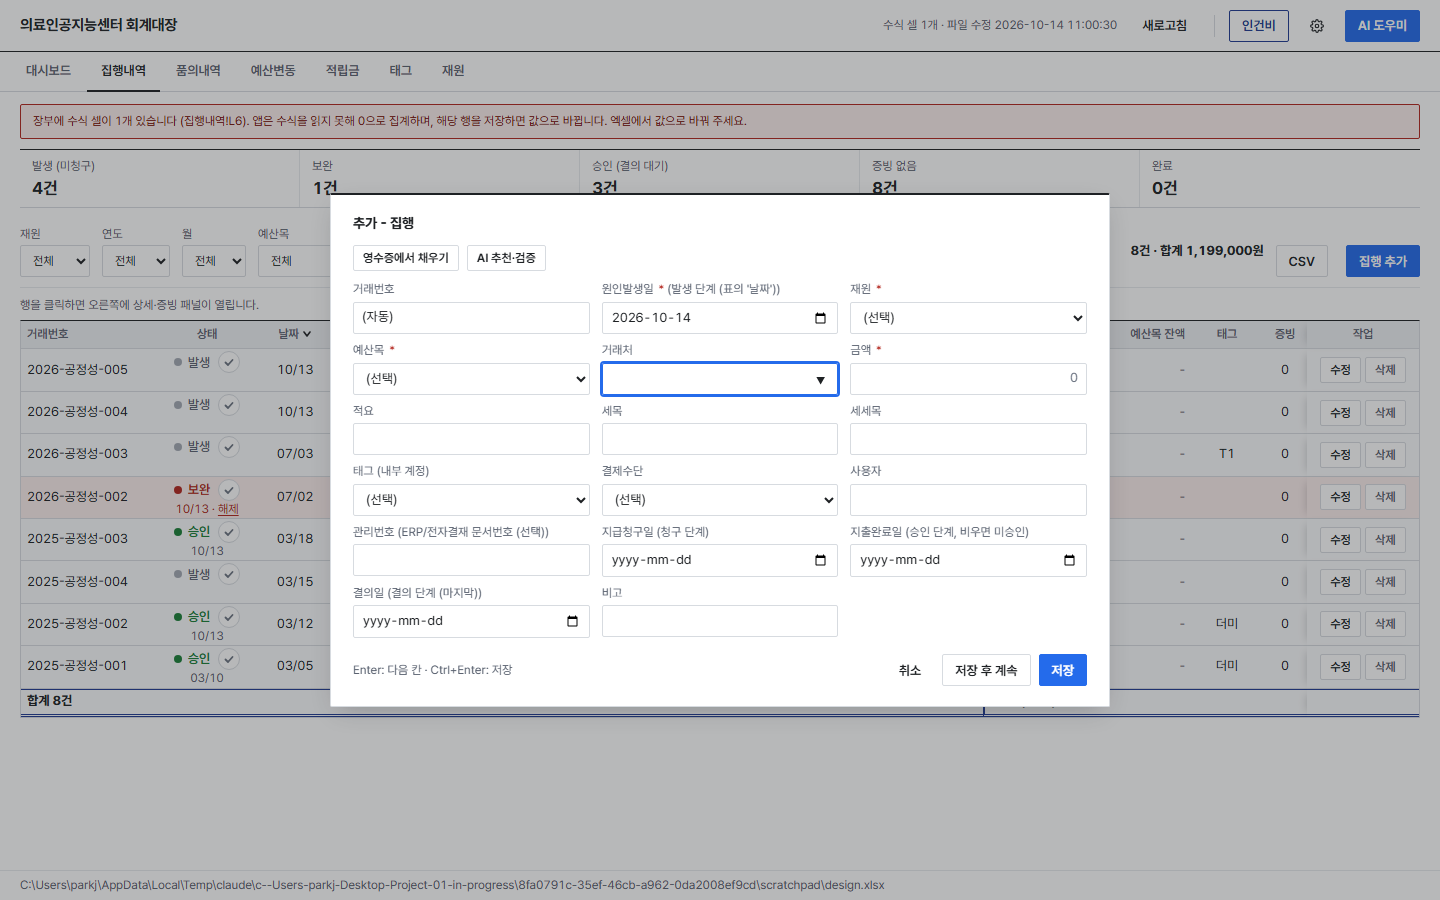
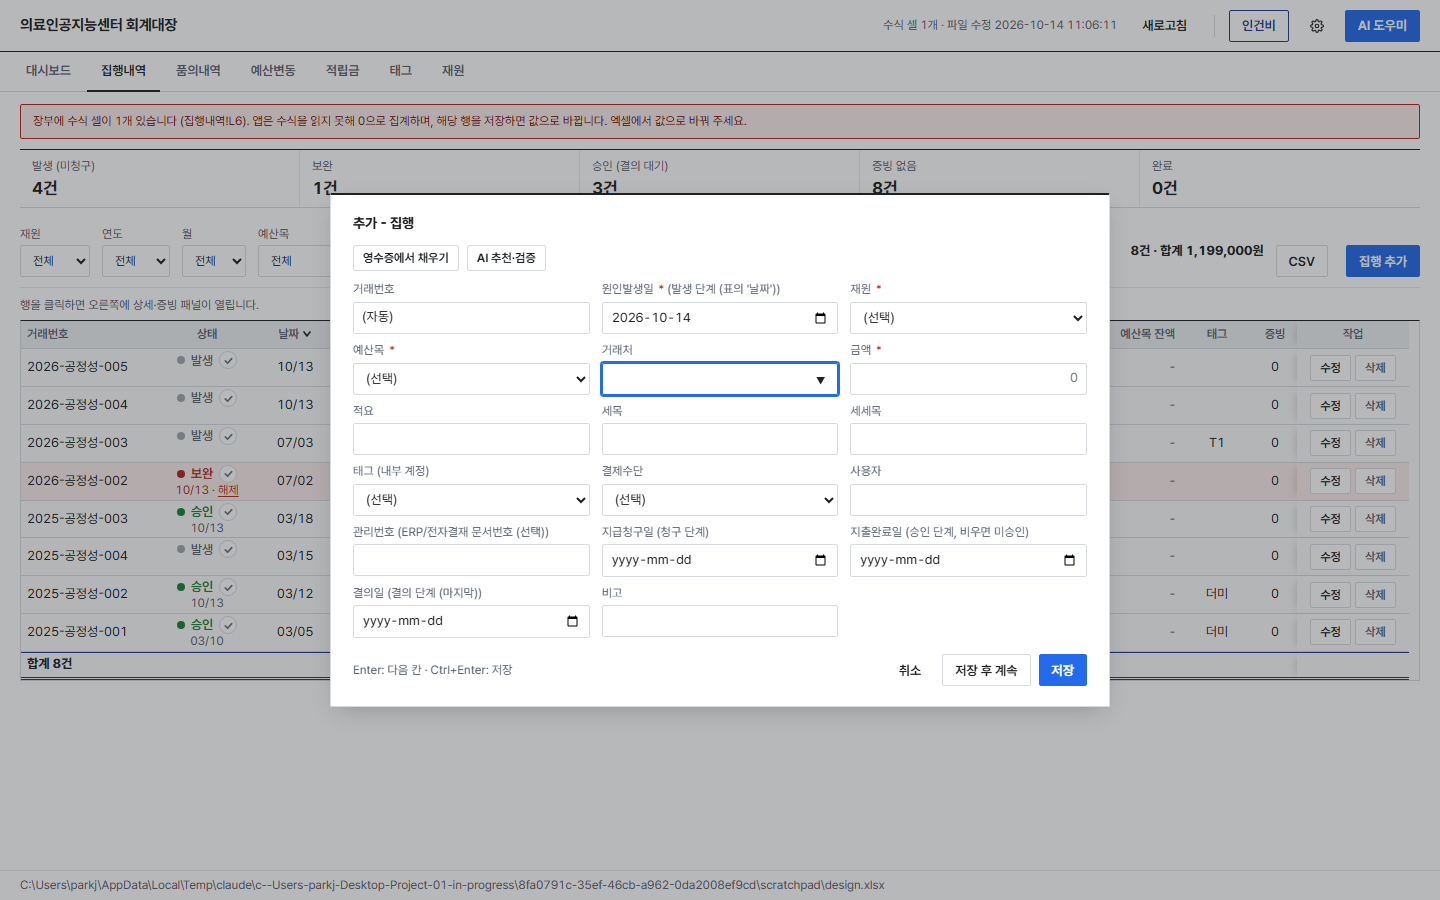
표 세로 스크롤바 유무와 무관하게 폭 고정(scrollbar-gutter), 상태 칸 높이 축소

diff --git a/app/static/style.css b/app/static/style.css
@@ -104,7 +104,7 @@ input:disabled, select:disabled, textarea:disabled { background: var(--bg-head);
 .btn-x { width: 28px; height: 28px; min-height: 0; padding: 0; justify-content: center; }
 
 /* ---------- 표 (컬럼너 패드) ---------- */
-.table-wrap { overflow: auto; background: var(--bg-table); border: 1px solid var(--rule); border-top: 1px solid var(--ink); max-height: calc(100vh - 290px); position: relative; }
+.table-wrap { overflow: auto; scrollbar-gutter: stable; background: var(--bg-table); border: 1px solid var(--rule); border-top: 1px solid var(--ink); max-height: calc(100vh - 290px); position: relative; }
 .table-wrap.scrollable::after { content: ""; position: absolute; top: 0; right: 0; bottom: 0; width: 16px; pointer-events: none; background: linear-gradient(to right, rgba(250,251,252,0), rgba(30,33,36,.10)); }
 table.grid { border-collapse: separate; border-spacing: 0; width: 100%; font-size: 13px; }
 table.grid th, table.grid td { border-bottom: 1px solid var(--rule); padding: 0 6px; height: var(--row); text-align: left; vertical-align: middle; white-space: nowrap; line-height: 1.3; }
@@ -415,8 +415,8 @@ body.drawer-open #exec-table [data-col="결의일"], body.drawer-open #exec-tabl
 
 /* 상태 열: 배지 + 다음 단계 체크 버튼 */
 table.grid td.st-cell { white-space: nowrap; }
-table.grid td.st-cell .next { display: inline-flex; align-items: center; justify-content: center; width: 22px; height: 22px; margin-left: 8px; padding: 0; border: 1px solid var(--rule); border-radius: 50%; background: #fff; color: var(--ink-3); cursor: pointer; vertical-align: middle; }
-table.grid td.st-cell .next svg { width: 12px; height: 12px; }
+table.grid td.st-cell .next { display: inline-flex; align-items: center; justify-content: center; width: 18px; height: 18px; margin-left: 6px; padding: 0; border: 1px solid var(--rule); border-radius: 50%; background: #fff; color: var(--ink-3); cursor: pointer; vertical-align: middle; }
+table.grid td.st-cell .next svg { width: 11px; height: 11px; }
 table.grid td.st-cell .next:hover, table.grid td.st-cell .next:focus-visible { color: #fff; background: var(--primary); border-color: var(--primary); outline: none; }
 
 /* 상태 칸 두 줄: 윗줄 상태+체크, 아랫줄 단계 날짜·보완 링크 */
@@ -458,3 +458,7 @@ table.grid td.tit .t .origin { margin-left: 6px; vertical-align: 0; }
 #exec-table th.actions { width: 112px; }
 #exec-table td { overflow: hidden; text-overflow: ellipsis; }
 #exec-table td.tit { max-width: none; min-width: 0; }
+
+/* 세로 스크롤바 유무와 무관하게 표 폭 고정 (scrollbar-gutter) · 상태 칸 두 줄이 36px 안에 들어오도록 */
+table.grid td.st-cell .t { min-height: 18px; }
+table.grid td.st-cell .s { line-height: 1.15; }
